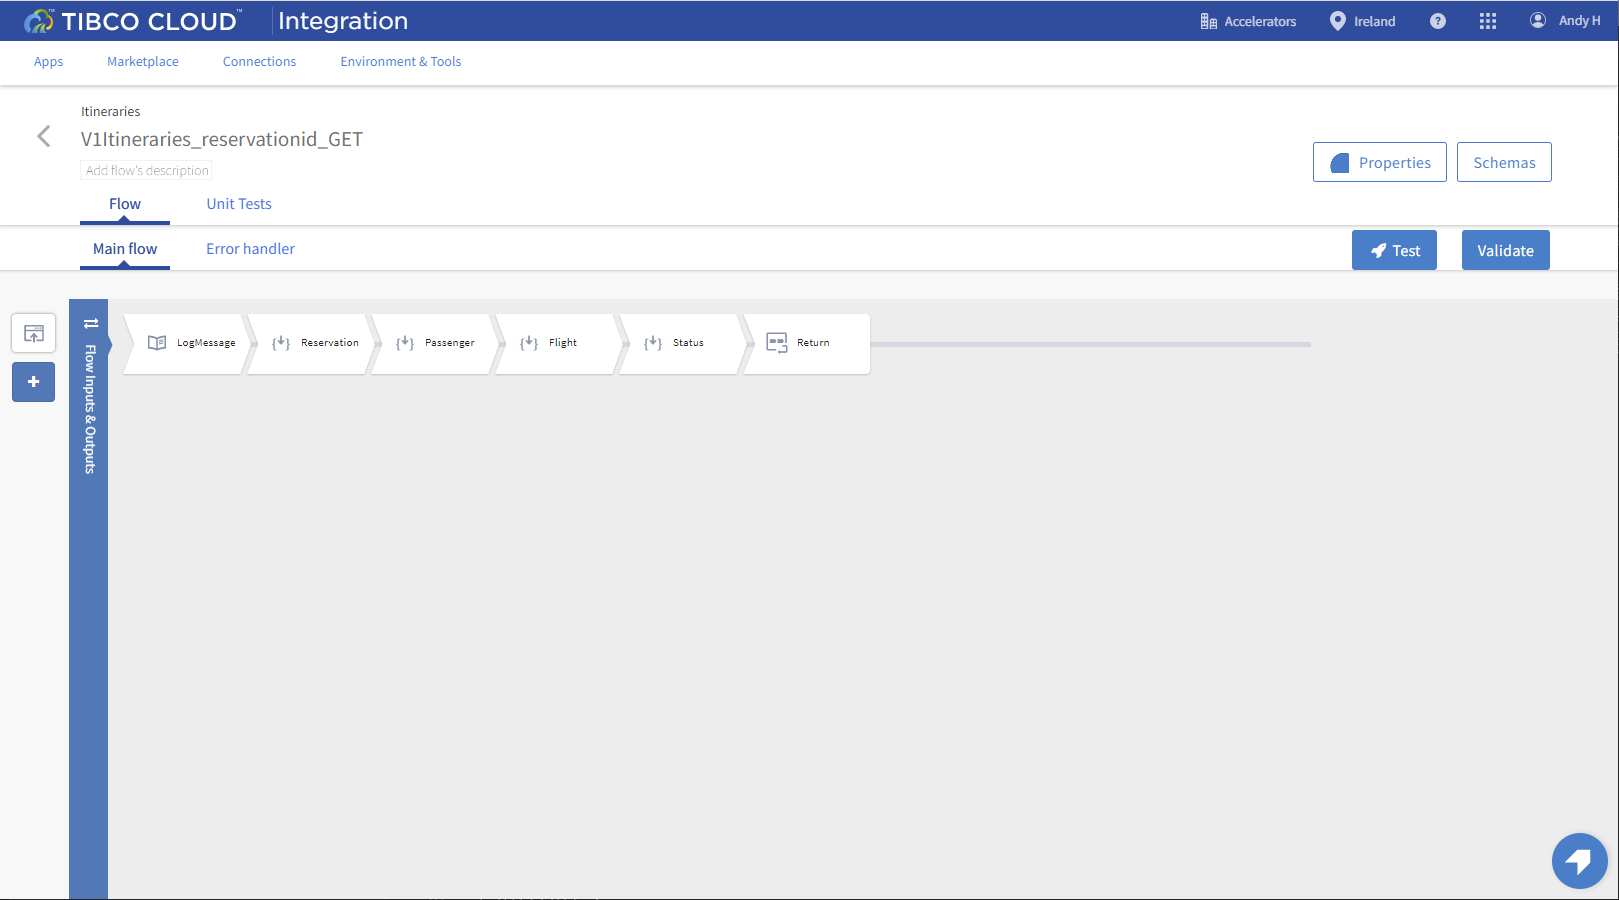
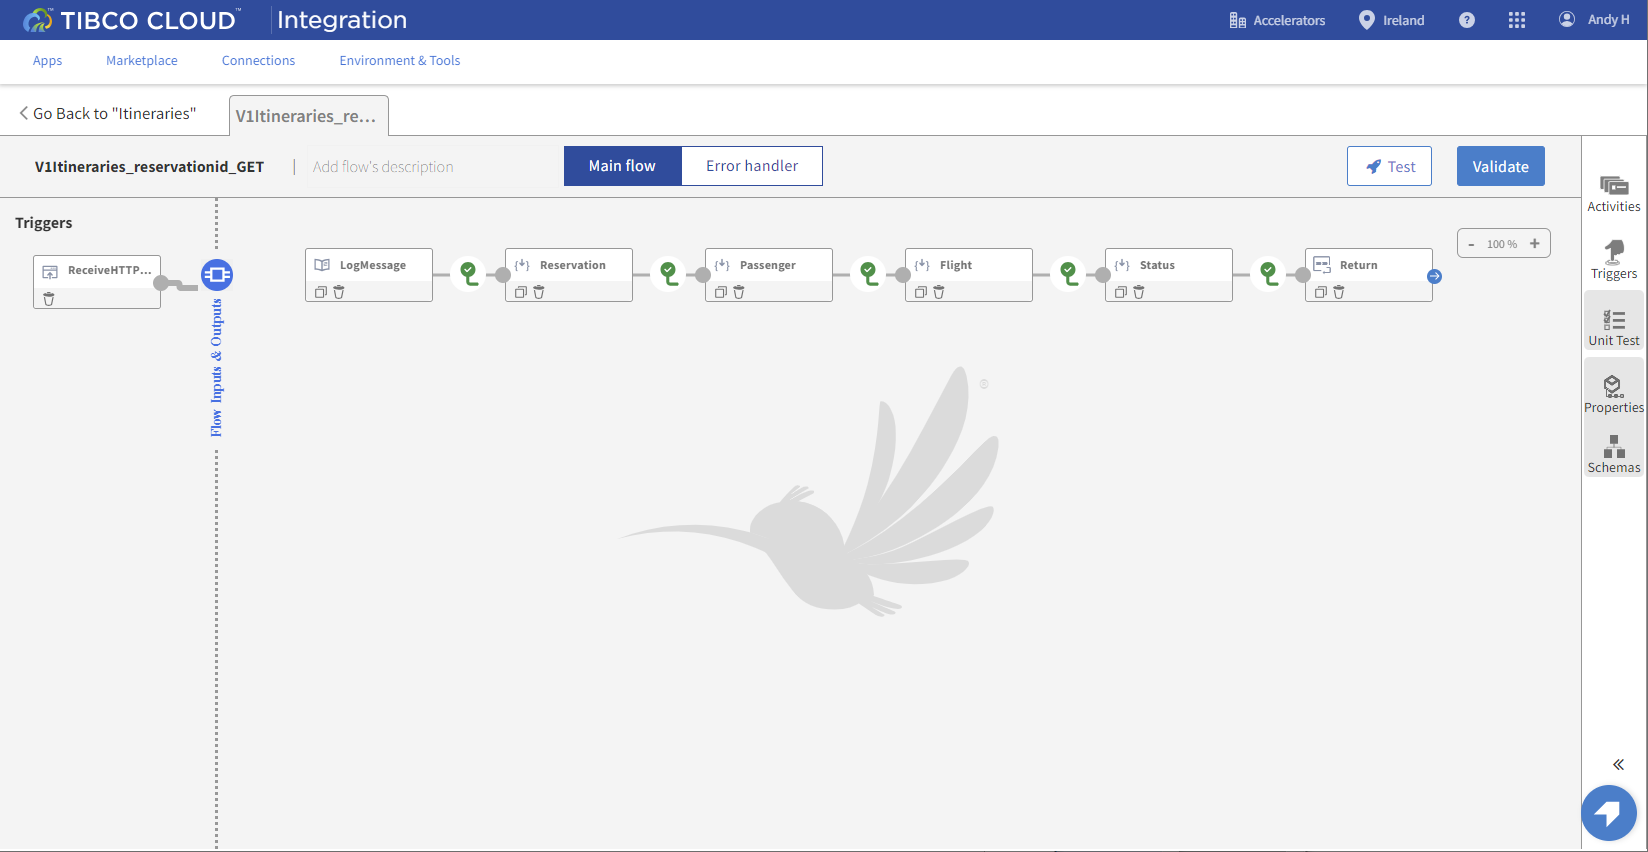
Updates for new UI release

diff --git a/2.apiimplementation.md b/2.apiimplementation.md
@@ -43,29 +43,33 @@ Let’s extend the **itineraries API** to include aircrafts details.
 
 ![Start](images/API5.png "Start")
 
-2)	At the end of the line of activities, Hover your mouse over the gray line and select the **+** to add a new activity.
-3)	From Add Activity, scroll down, select General, select Invoke REST Service. 
+2)	In the right hand menu click "Activities"
+3)	In the Activity Panel, scroll down, expand General, and click and drag "Invoke REST Service". 
+4)	Drag the InvokeRESTService to the left and drop close to the Status activity and the Return.
 
 ![Drag](images/API6.png "Drag")
 
-4)	Drag the InvokeRESTService to the left and drop between the Status activity and the Return.
-5)	Now let’s configure the Invoke Rest Service activity.  
-6)	Let’s rename this activity.  Select InvokeRESTService, hover your mouse over the name InvokeRESTService and select the edit icon.  
-7)	Rename **InvokeRESTService** to **Aircraft**.
+5)  Remove the transition between **Status** and **Return**. To do this move the mouse to the green tick icon. This will bring up the transition panel. Click the waste bin icon on the right hand end to remove the transition.
+6)  Now we need to connect the activities. Each activity has an exit transition (Blue arrow). Click and drag the exit transition on **Status** and drop it onto the new **InvokeRESTService** activity. Do the same for the transition to the **Return** activity.
+Note - At this stage you may want to tidy up the flow by moving the tiles around to show the flow that makes sense to you.
+![Drag](images/API6a.png "Drag")
+7)	Now let’s configure the Invoke Rest Service activity.  
+8)	Let’s rename this activity.  Select InvokeRESTService, hover your mouse over the name InvokeRESTService and select the edit icon.  
+9)	Rename **InvokeRESTService** to **Aircraft**.
 
-8)  Select **Settings** and paste the following URL in URL field.
+10)  Select **Settings** and paste the following URL in URL field.
   `https://eu-west-1.integration.cloud.tibcoapps.com:443/nhj5x7yul7x5x3v6alu5cysgmuckp2xz/v1/aircrafts/{aircraftid}`
 
 ![URL](images/API7.png "URL")
 
-9)  Now let’s map activity input.  
+11)  Now let’s map activity input.  
 Select **Input** tab. 
 Under **Activity inputs** expand pathparams then expand Available data->Reservation->responseBody->reservation
 Select aircraftid and drag it to aircraftId.
 
 ![Mapped](images/API8.png "Mapped")
 
-10) Configure the Output settings.  
+12) Configure the Output settings.  
 Select **Output Settings** and paste the following schema into Response Schema.
 ```
 {"aircraft":
@@ -77,14 +81,14 @@ Select **Output Settings** and paste the following schema into Response Schema.
 
 ![Schema](images/API9.png "Schema")
 
-11) Click Save
-12) Let’s map the aircraft details into the Return activity (Last step on the flow diagram).  
+13) Click Save
+14) Let’s map the aircraft details into the Return activity (Last step on the flow diagram).  
 Select Return activity  
 ![Return](images/API10.png "Return")
 Expand Flow Outputs itinerary and select aircraft. 
 In upstream Output Aircraft, expand Aircraft->responseBody, select aircraft. 
 Drag the **aircraft** object to the flow output aircraft object to map it.
-13) Click Save
+15) Click Save
 
 ![Return](images/API10.png "Return")
 
@@ -117,7 +121,7 @@ In this section we will test **itineraries API** implementation.
 
 ![Test](images/API13.png "Test")
 
-5)	Select Stop Testing. 
+5)	Click **Stop Testing**. 
 6)  Navigate back to the "flows" view by clicking the back button in the UI
 
 ![Back](images/API14.png "Back")

diff --git a/4.Messaging.md b/4.Messaging.md
@@ -74,14 +74,15 @@ Set a Time interval. For example, 5 Seconds.
 ![Repeat](images/Msg14.png "Set time interval")
 
 13) Our first Flow activity will be a Mapper. This will be used to create our message structure.  
-You can find the Mapper in the Add Activity window - it might be in the recently used list, or alternatively you can use the search box or find it under the **General** collection.  
+You can find the Mapper in the Activity side panel - it might be in the recently used list, or alternatively you can use the search box or find it under the **General** collection. 
+Drop it on the canvas and connect the Start to the Mapper 
 ![Home](images/Msg15.png "Home")
 
 14)  On the **Input Settings** tab click the Toggle to use a schema for the data format.  
 ![Add](images/Msg16.png "Add Mapper")
 
 15)  At the moment this app doesn't have any defined schemas, so we need to add one.  
-Click the **Add schema** button.   
+Click the **Schemas** in the side panel.   
 Give the schema a meaningful name.  
 In the schema format you can either enter a valid JSON schema or you can give it some sample data to generate a schema from.  
 Let's enter some sample data as follows:
@@ -110,7 +111,7 @@ And finally generate a random number with `number.random(999999)`
 ![Random](images/Msg21.png "Random")
 
 18) Our next Flow activity will be the **Kafka Producer** that will send the message.  
-Find the Producer in the Add Activity window. It might be in the recently used list or you might need to use the Search box or you could navigate to the **Kafka** collection.  
+Find the Producer in the Activity panel. It might be in the recently used list or you might need to use the Search box or you could navigate to the **Kafka** collection.  
 ![Producer](images/Msg22.png "Producer")
 
 19)  In the **Settings** tab, select the **Kafka Client Configuration** details we set up earlier.  
@@ -168,7 +169,7 @@ If you don't do this some field names will be missing in the next step !!
 Click Save  
 ![Home](images/Msg32.png "Home")
 
-33)  In the flow designer add a LogMessage activity by clicking on the + icon.  
+33)  In the flow designer add a LogMessage activity from the activity panel.  
 Here we are going to write the received message data to the log.  
 Map this however you like... But this is how we did it...  
 ```
